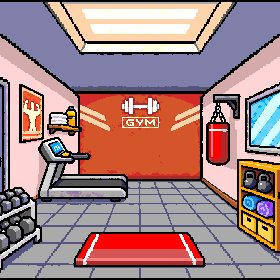
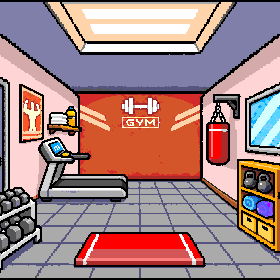
Gym: the treadmill's lavender grey stays grey (no magenta or blue specks from the colour boost)

diff --git a/tools/make_gym_room.py b/tools/make_gym_room.py
@@ -49,7 +49,18 @@ for _k in list(MIX):
     MIX[_k] = (boost(MIX[_k][0]), boost(MIX[_k][1]))
 
 
+GREYS = [p for p in CHOICES if max(p) - min(p) == 0 or (p in MIX and all(max(q) == min(q) for q in MIX[p]))]
+
+
 def nearest(c, cache={}):
+    if c not in cache and max(c) - min(c) < 26:
+        # nearly grey (the treadmill's frame, the outlines): a grey, never a tinted checkerboard
+        # (lavender ones turned purple in the boost)
+        cache[c] = min(GREYS, key=lambda p: sum((x - y) ** 2 for x, y in zip(c, p)) + (300 if p in MIX else 0))
+    if c not in cache and not (c[0] - c[1] > 40 and c[2] - c[1] > 40):
+        # not a real purple (the treadmill's lavender grey): no checkerboard the boost turns magenta
+        ok = [p for p in CHOICES if not (p in MIX and any(q[0] == q[2] and q[0] > q[1] for q in MIX[p]))]
+        cache[c] = min(ok, key=lambda p: sum((x - y) ** 2 for x, y in zip(c, p)) + (300 if p in MIX else 0))
     if c not in cache:
         # a little weight against the checkerboards: a solid colour when about as close
         cache[c] = min(CHOICES, key=lambda p: sum((x - y) ** 2 for x, y in zip(c, p)) + (300 if p in MIX else 0))
